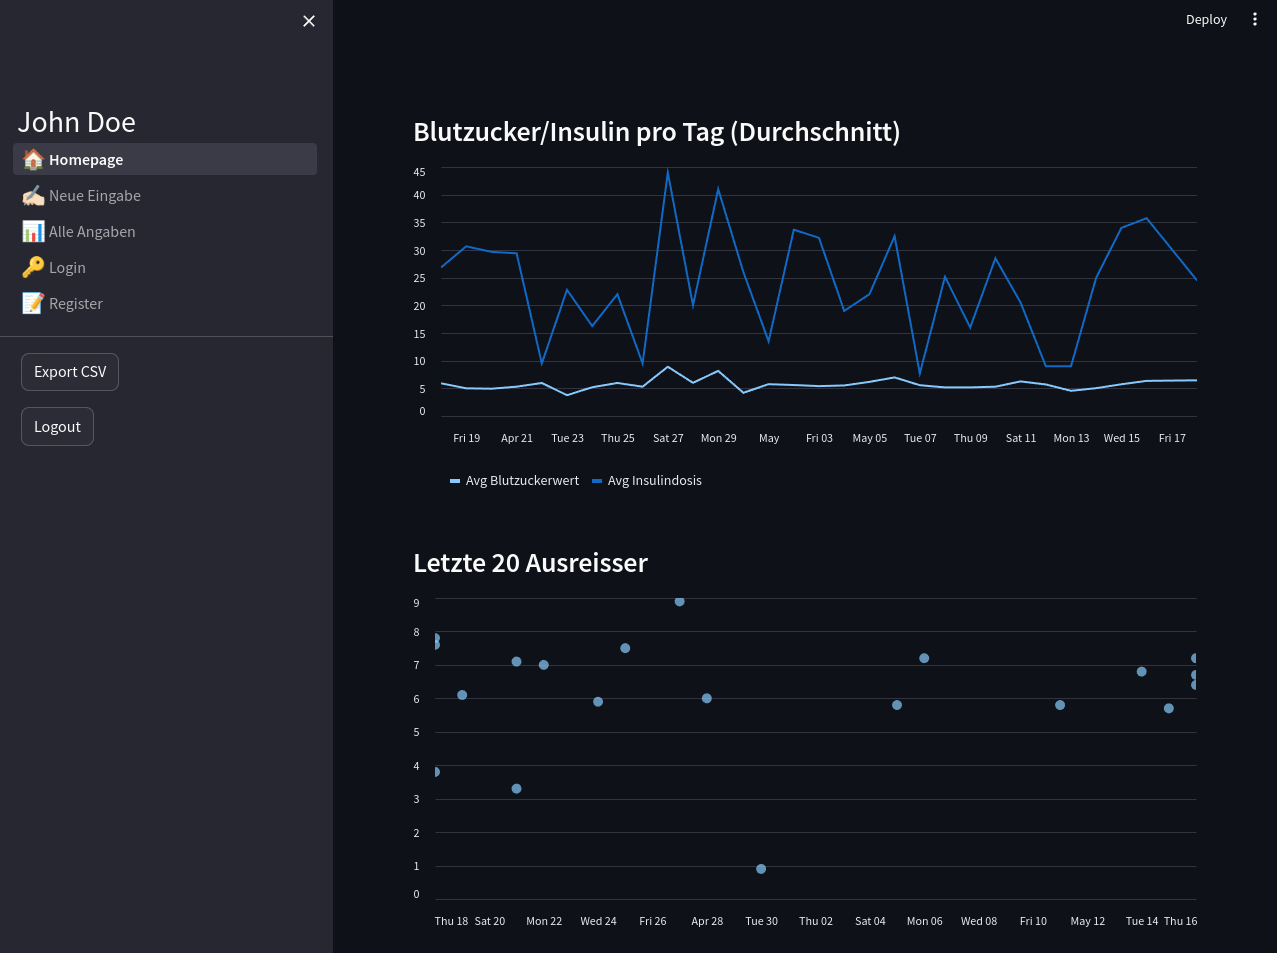
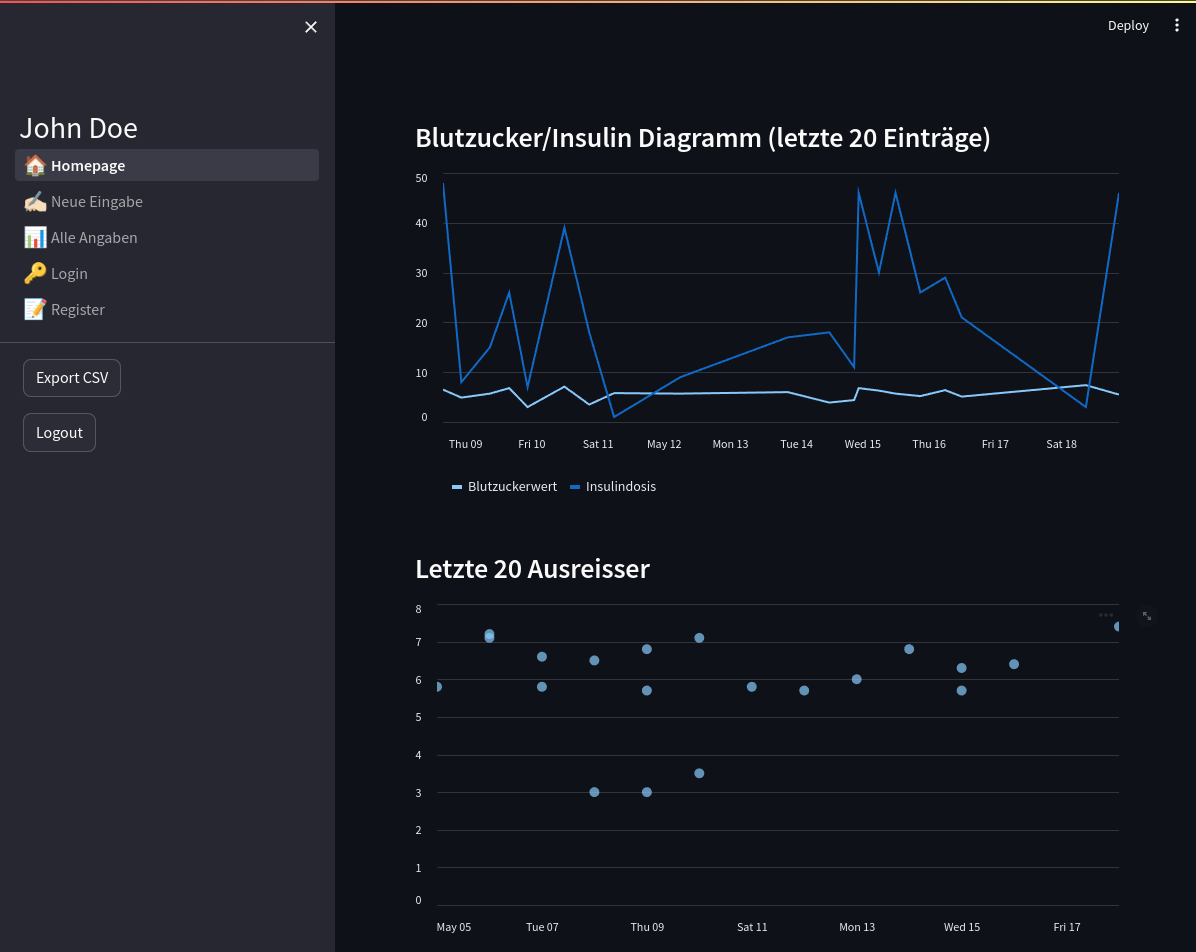
Show last 20 entries on Homepage graph, update image, cleanup register

diff --git a/1_🏠_Homepage.py b/1_🏠_Homepage.py
@@ -28,23 +28,40 @@ def main():
 
     df[Fields.DATE.value] = pd.to_datetime(df[Fields.DATE.value])
 
-    daily_averages = (
-        df.groupby(df[Fields.DATE.value].dt.date)
-        .agg({Fields.SUGAR.value: "mean", Fields.INSULIN.value: "mean"})
-        .reset_index()
+    st.subheader("Blutzucker/Insulin Diagramm (letzte 20 Einträge)")
+    time_map = {
+        "nüchtern": "06:00",
+        "vor dem Frühstück": "09:00",
+        "vor dem Mittagessen": "12:00",
+        "vor dem Abendessen": "16:00",
+        "vor dem Schlafen": "21:00",
+        "zusätzlich": "00:00",  # Default to midnight if 'zusätzlich'
+    }
+
+    # Function to determine the time
+    def determine_time(row):
+        if row["Tageszeit"] in time_map:
+            return time_map[row["Tageszeit"]]
+        else:
+            return row["Tageszeit"]  # Use the time string directly
+
+    df["Time"] = df.apply(determine_time, axis=1)
+    df["DateTime"] = pd.to_datetime(
+        df["Datum"].dt.strftime("%Y-%m-%d") + " " + df["Time"]
     )
 
-    daily_averages.columns = ["Datum", "Avg Blutzuckerwert", "Avg Insulindosis"]
+    df = df.sort_values(by="DateTime")
 
-    st.subheader("Blutzucker/Insulin pro Tag (Durchschnitt)")
+    last_20_entries = df.tail(20)
 
-    daily_averages.set_index("Datum", inplace=True)
-    st.line_chart(daily_averages)
+    last_20_entries.set_index("DateTime", inplace=True)
+    combined_data = last_20_entries[["Blutzuckerwert", "Insulindosis"]]
+    st.line_chart(combined_data)
 
+    st.subheader("Letzte 20 Ausreisser")
     out_of_norm = df[(df[Fields.SUGAR.value] < 3.9) | (df[Fields.SUGAR.value] > 5.6)]
 
     last_20_out_of_norm = out_of_norm.tail(20)
-    st.subheader("Letzte 20 Ausreisser")
 
     scatter_data = last_20_out_of_norm[[Fields.DATE.value, Fields.SUGAR.value]]
     scatter_data.set_index(Fields.DATE.value, inplace=True)

diff --git a/pages/5_📝_Register.py b/pages/5_📝_Register.py
@@ -21,12 +21,9 @@ def register_page():
                 st.error("All fields are required.")
                 return
 
-            hashed_password = bcrypt.hashpw(
-                new_password.encode("utf8"), bcrypt.gensalt()
-            )  # Hash the password
-            hashed_password_hex = binascii.hexlify(
-                hashed_password
-            ).decode()  # Convert hash to hexadecimal string
+            utf8_pass = new_password.encode("utf8")
+            hashed_password = bcrypt.hashpw(utf8_pass, bcrypt.gensalt())
+            hashed_password_hex = binascii.hexlify(hashed_password).decode()
 
             # Check if the username already exists
             if new_username in st.session_state.df_users["username"].values:
